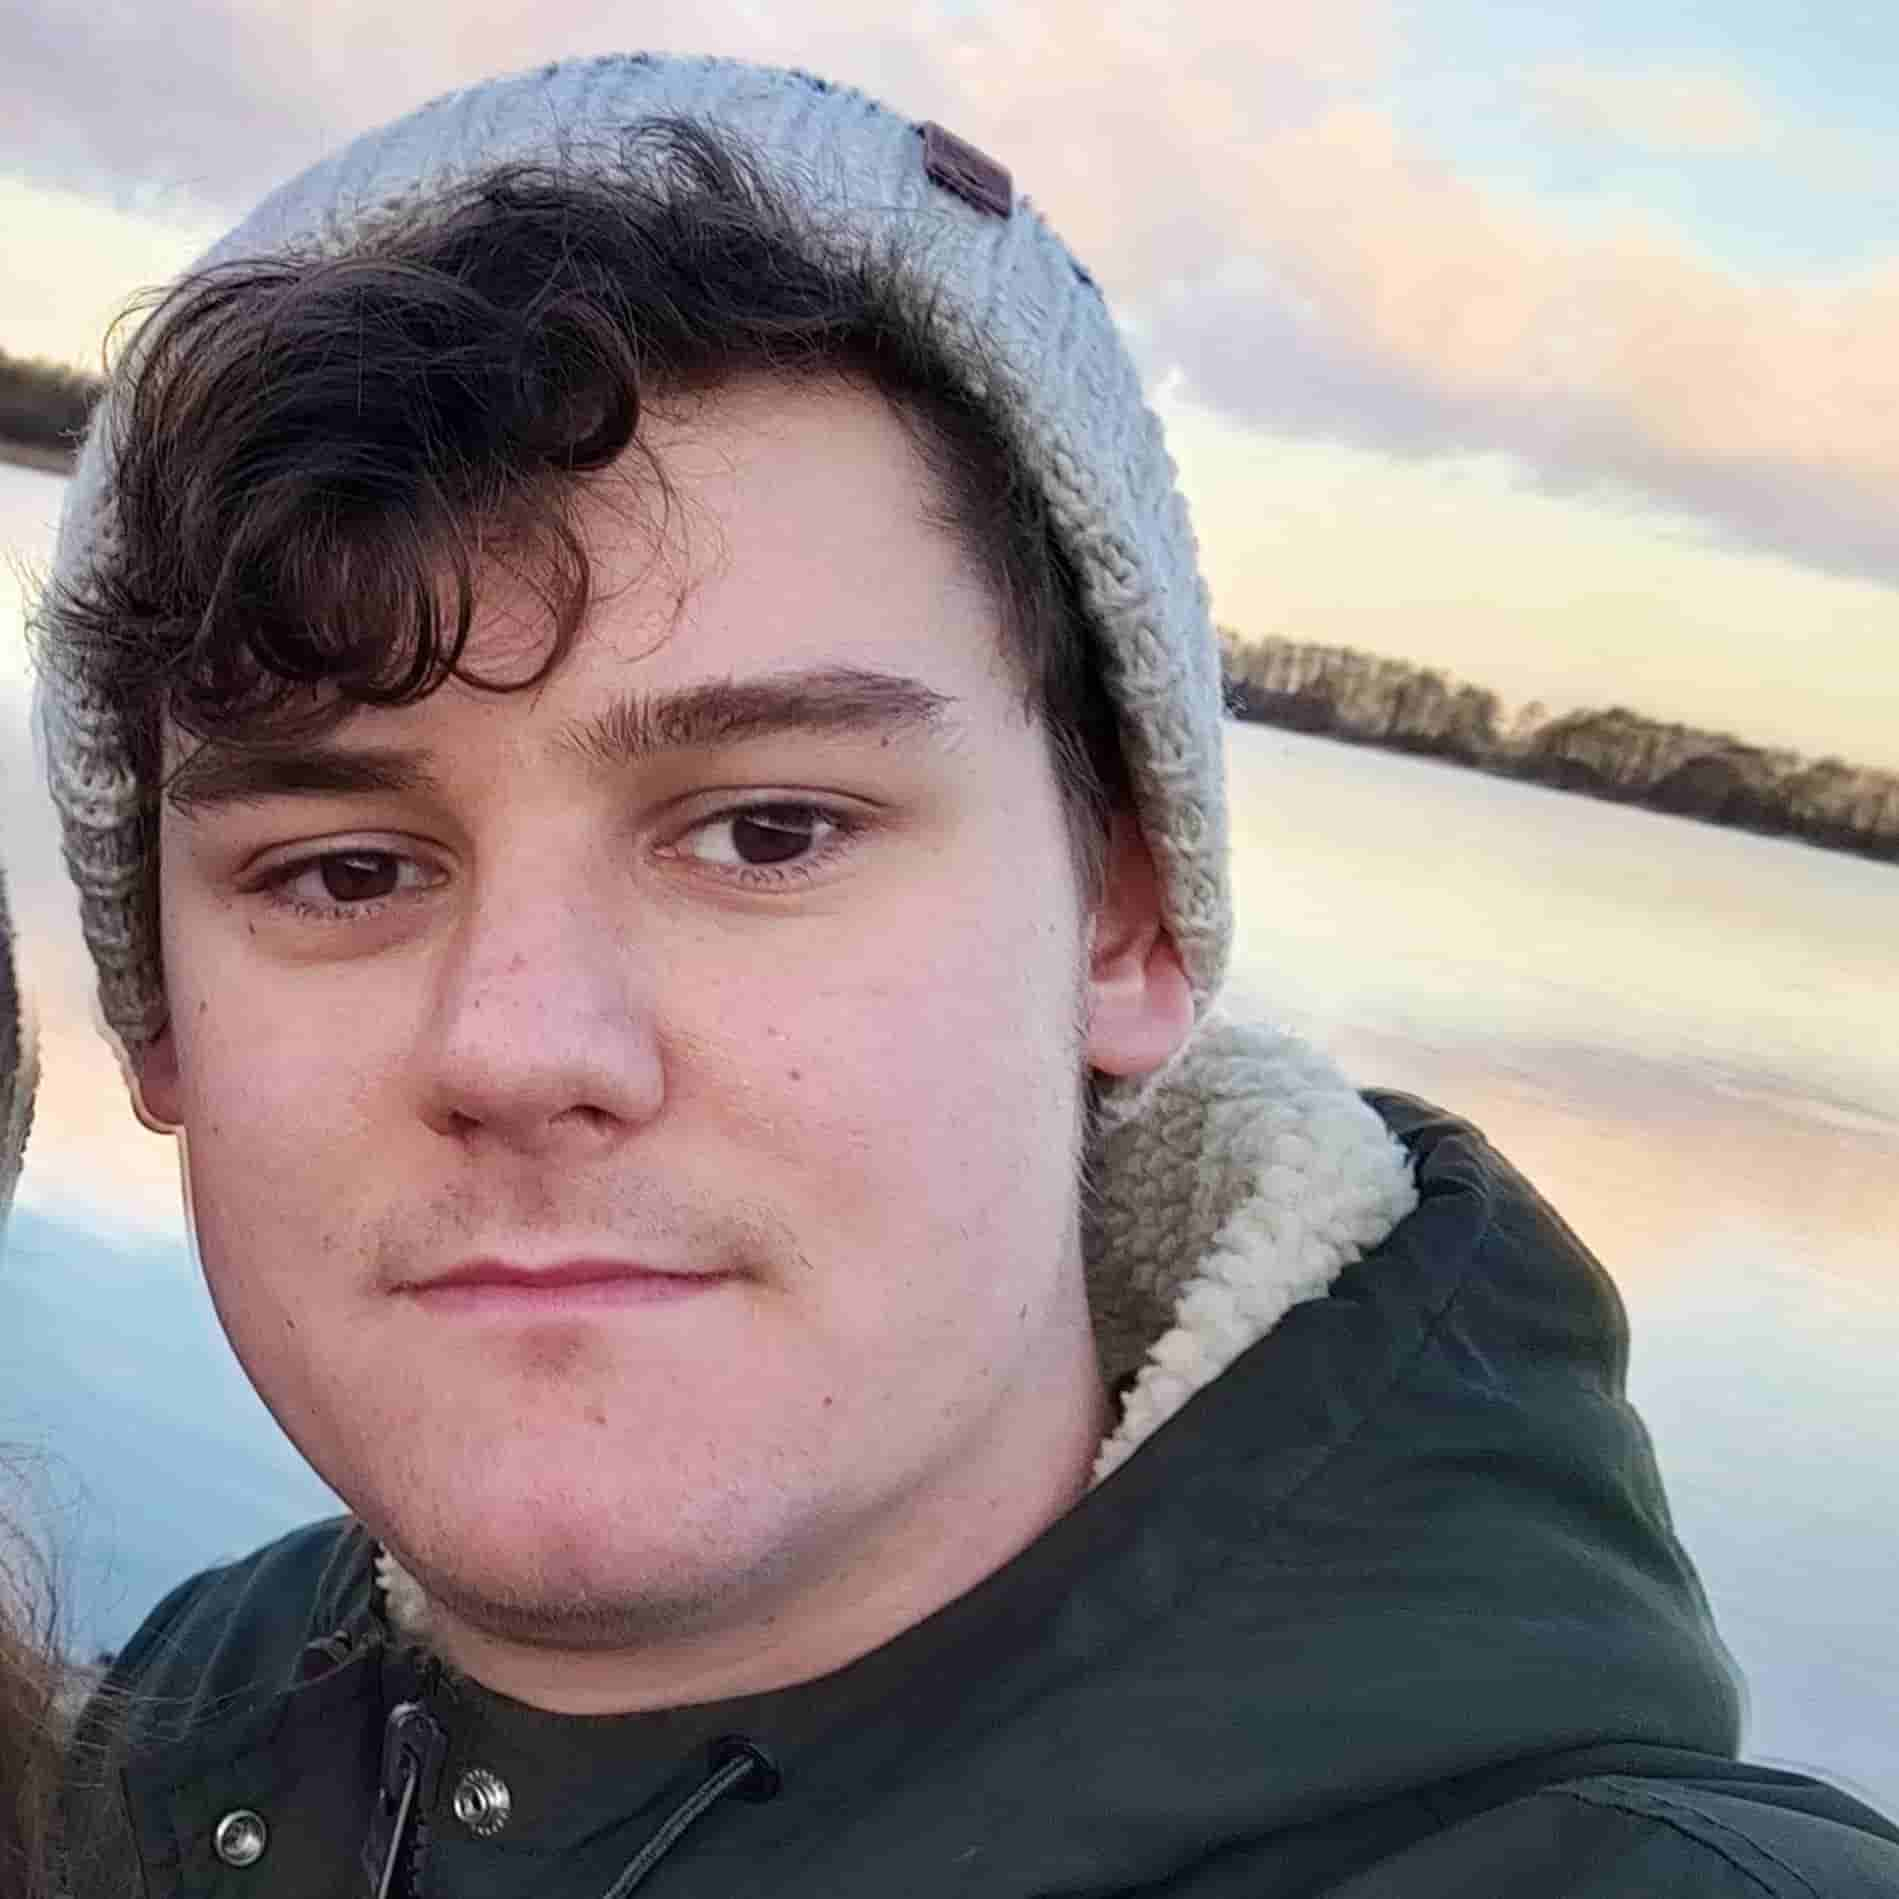
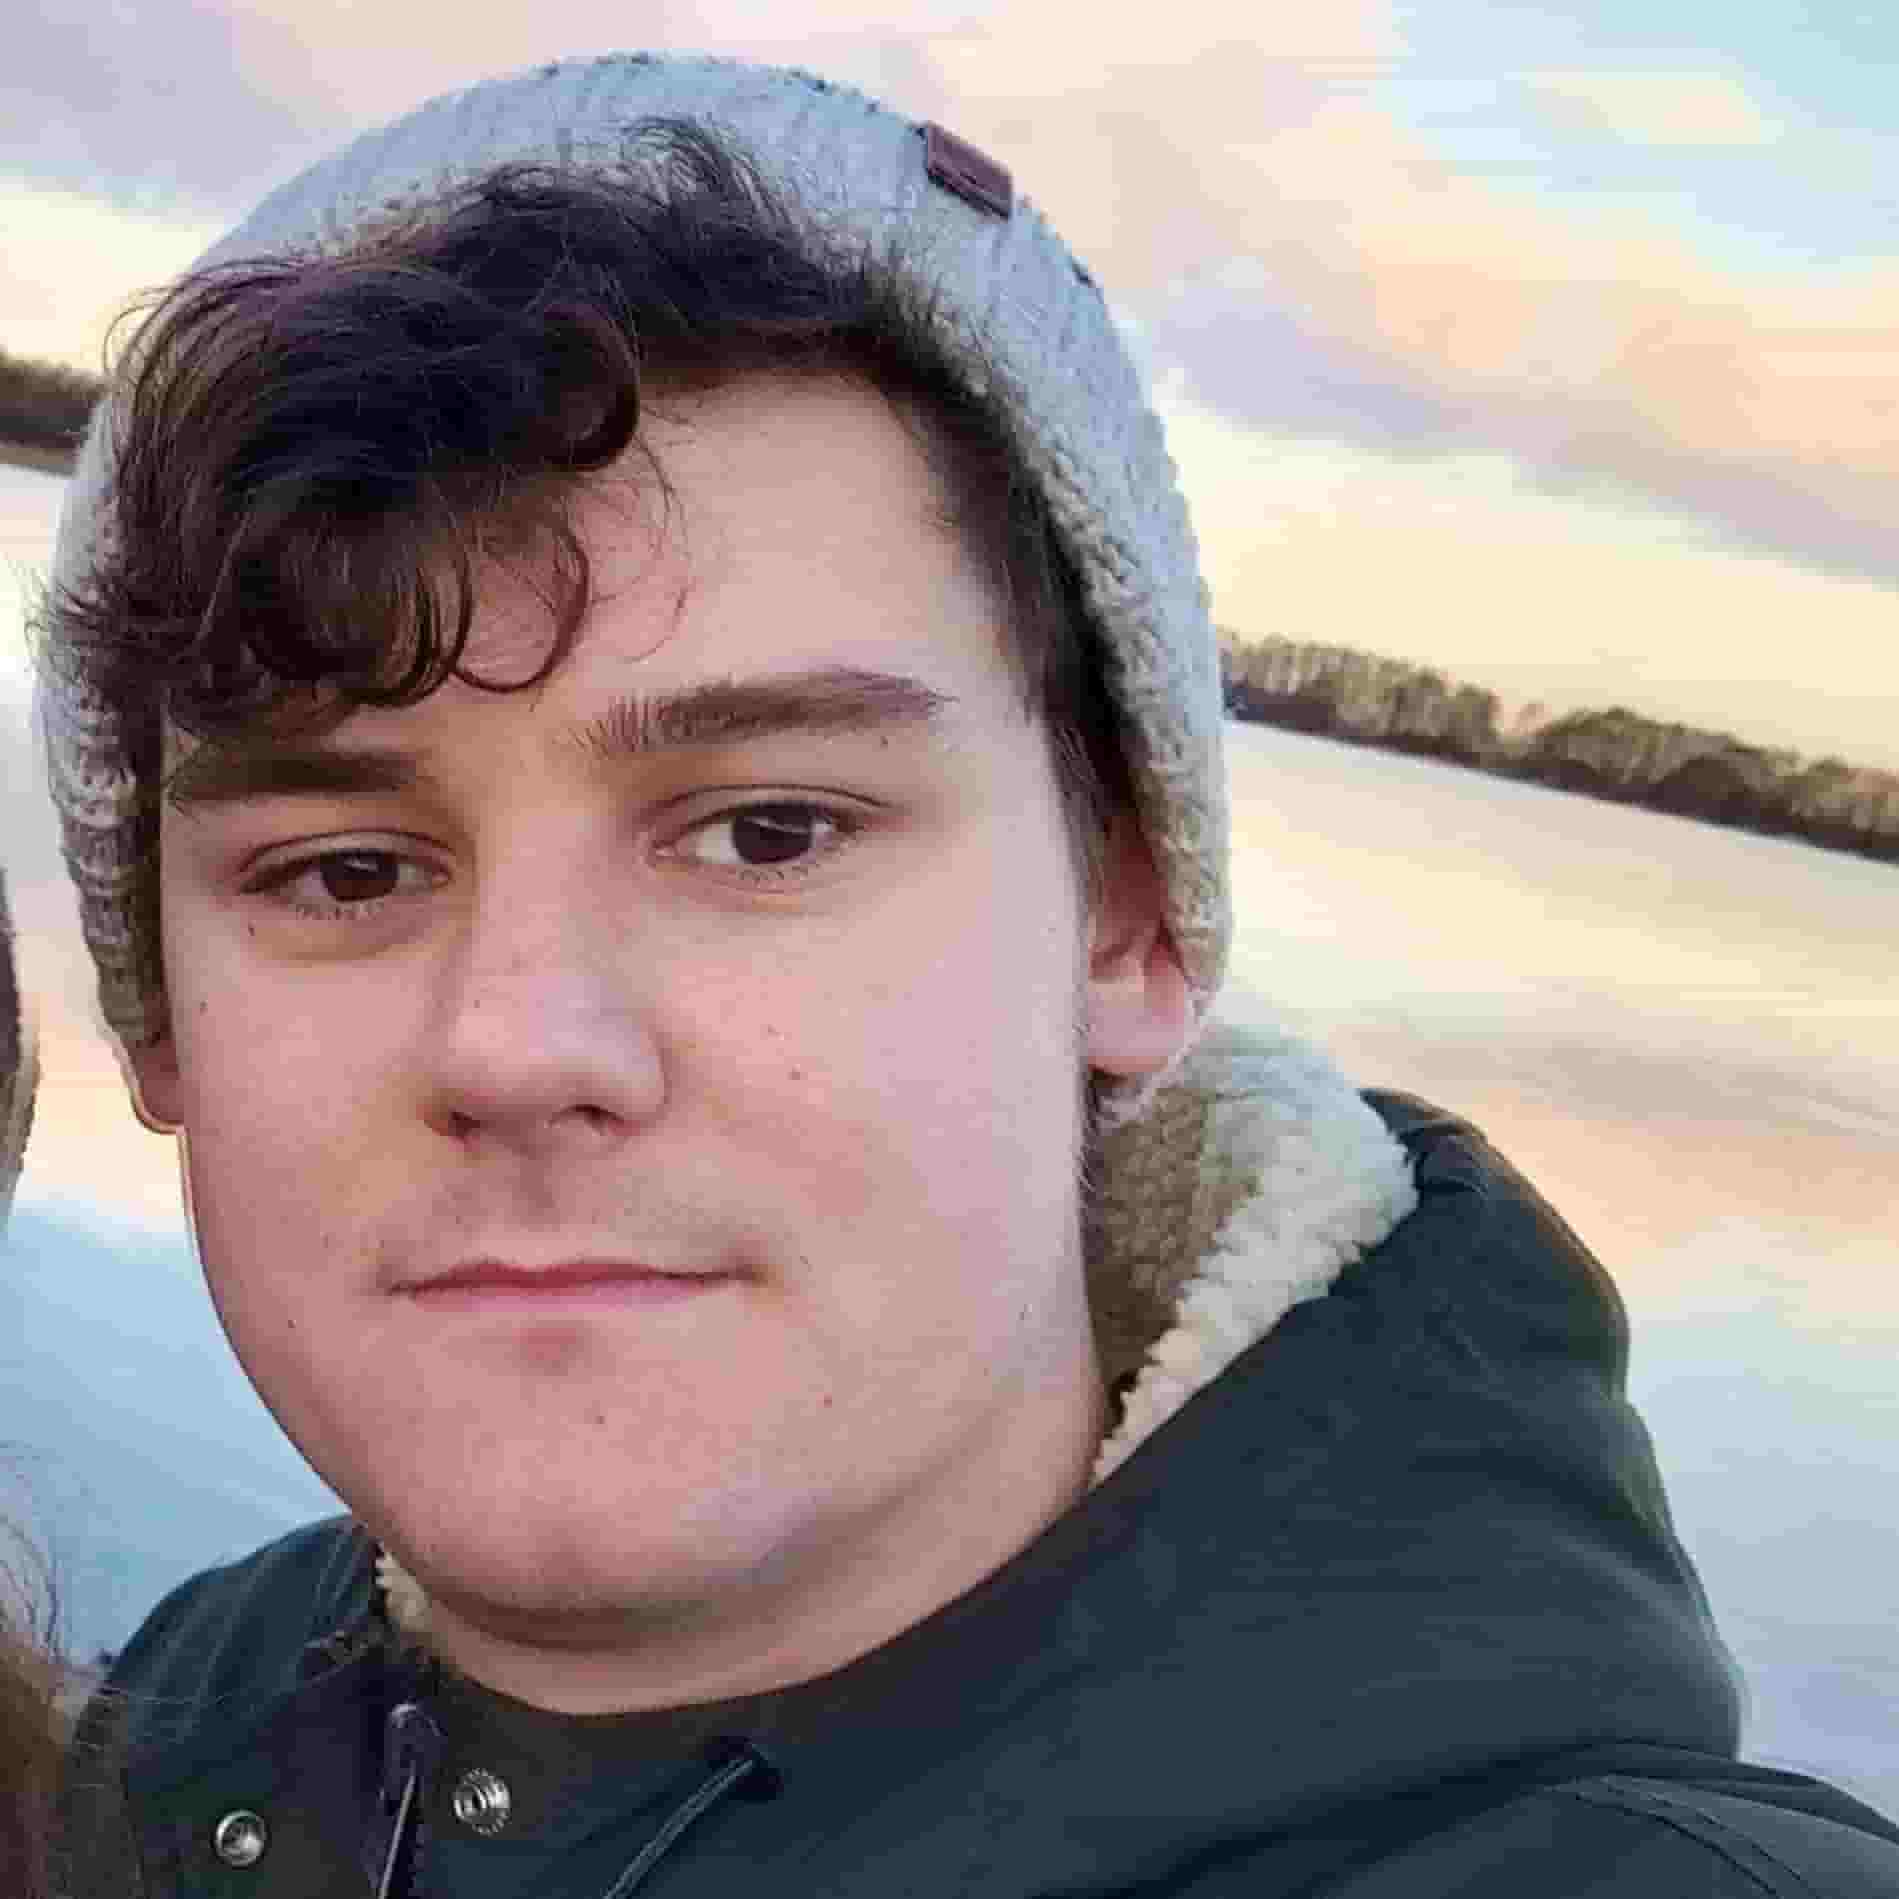
Compress jpg even further

diff --git a/index.html b/index.html
@@ -80,7 +80,7 @@
     style="font-family: Open Sans, Arial; text-align: justify; margin: auto auto; max-width: 600px; display: flex; flex-direction: column; justify-content: center;">
     <div class="block" style="padding: 1em;">
         <div style="display: flex; align-items: center; text-align: start;">
-            <img src="me.jpg" style="max-width: 100px; flex: 1;" />
+            <img src="me.jpg" style="max-width: 150px; flex: 1;" />
             <div style="margin-left: 1em; ">
                 <p style="line-height: 1; font-weight: 600;">Hallo! Ik ben Jari.</p>
                 <p>Ik ben software ontwikkelaar.</p>
